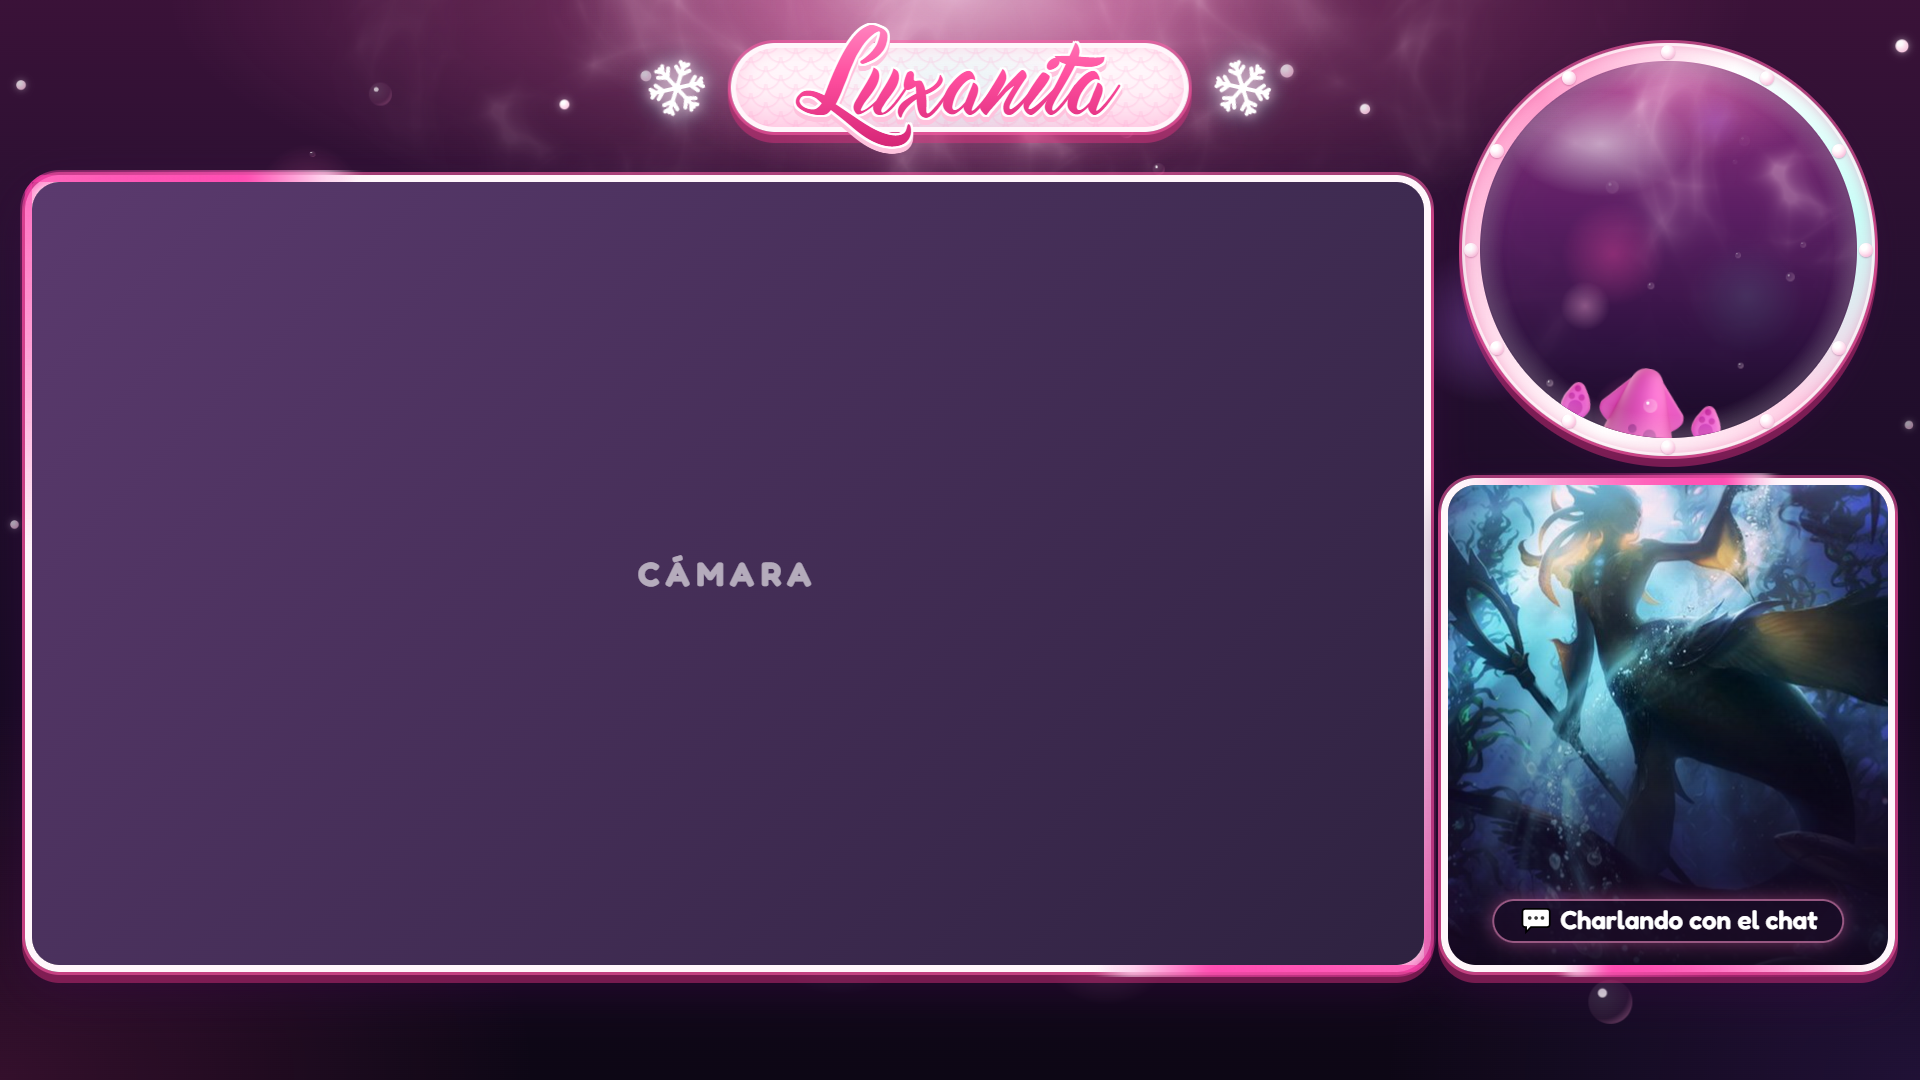
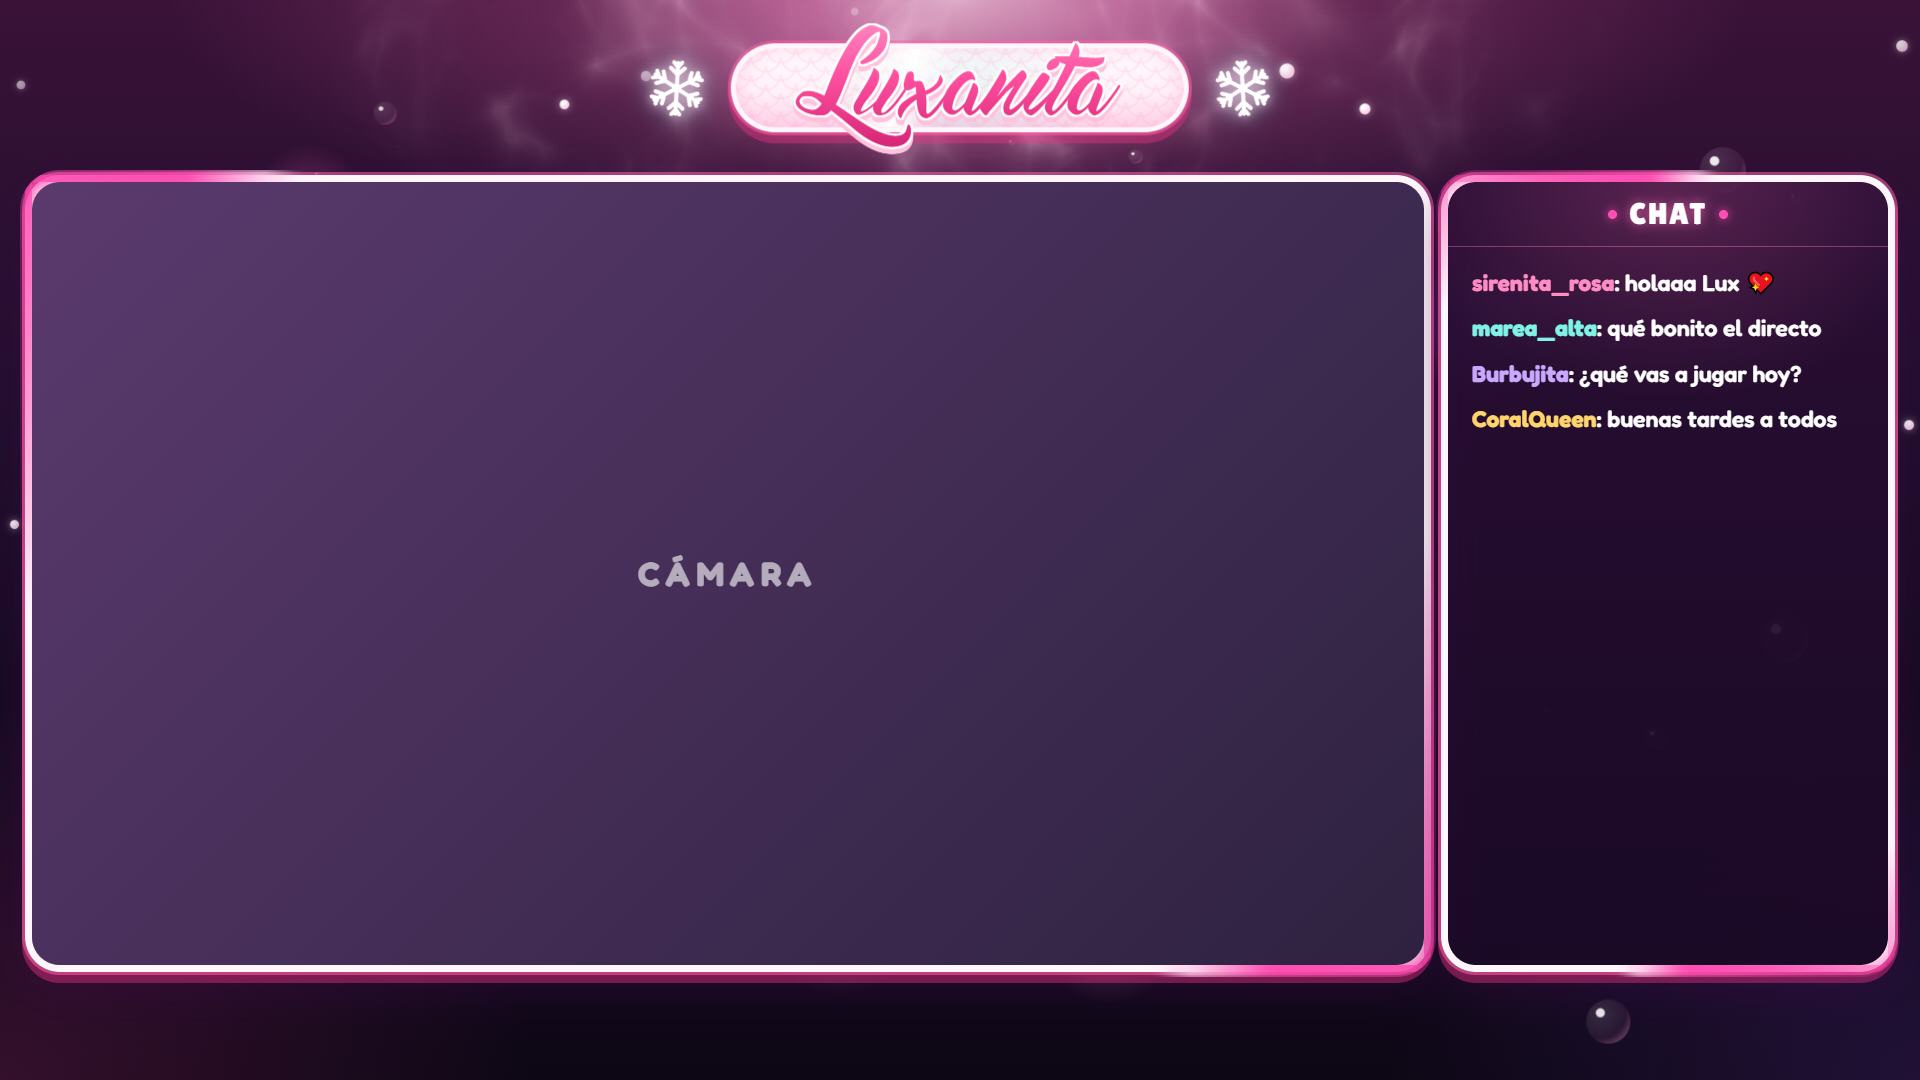
Escena charla: cámara grande + panel de chat a la derecha

diff --git a/overlay/comun.js b/overlay/comun.js
@@ -203,7 +203,7 @@
     // paneles con contenido
     paneles.forEach(function (p, k) {
       var el = document.createElement('div');
-      el.className = 'panel' + (p.notas ? ' notas' : '');
+      el.className = 'panel' + (p.notas ? ' notas' : '') + (p.chat ? ' chat' : '');
       place(el, p, 0);
       var h = '';
       if (p.arte) h += '<div class="arte" style="background-image:url(\'' + p.arte + '\')"></div><div class="velo"></div>';
@@ -211,6 +211,14 @@
                           (p.puntos ? '<span class="puntos"><i>.</i><i>.</i><i>.</i></span>' : '') + '</div>' +
                           (p.sub ? '<div class="sub">' + p.sub + '</div>' : '') + '</div>';
       if (p.etiqueta) h += '<div class="etiqueta">' + p.etiqueta + '</div>';
+      if (p.chat) {
+        h += '<div class="cabecera-chat"><i></i>CHAT<i></i></div>';
+        if (demo) h += '<div class="ejemplo">' +
+          '<p><b style="color:#ff8cc4">sirenita_rosa</b>: holaaa Lux 💖</p>' +
+          '<p><b style="color:#7ff3e6">marea_alta</b>: qué bonito el directo</p>' +
+          '<p><b style="color:#c9a8ff">Burbujita</b>: ¿qué vas a jugar hoy?</p>' +
+          '<p><b style="color:#ffd56b">CoralQueen</b>: buenas tardes a todos</p></div>';
+      }
       if (p.notas) {
         h += '<div class="cabecera">' + p.notas.cabecera + '</div>' +
              p.notas.lineas.map(function (l) { return '<div class="linea"><b>' + l[0] + '</b><span>' + l[1] + '</span></div>'; }).join('');

diff --git a/overlay/comun.css b/overlay/comun.css
@@ -788,3 +788,43 @@ html.preview.sin-fondo #stage { background: repeating-conic-gradient(#d9d3e3 0 2
   background: #ff4fb3;
   box-shadow: 0 0 8px #ff4fb3;
 }
+
+/* panel para el chat (escena de charla): fondo oscuro translúcido para que los mensajes se lean */
+.panel.chat {
+  background:
+    radial-gradient(ellipse 90% 40% at 50% 0%, rgba(255,110,181,.22), transparent 70%),
+    linear-gradient(180deg, rgba(42,14,52,.92) 0%, rgba(26,9,38,.94) 100%);
+}
+.panel.chat .cabecera-chat {
+  position: absolute;
+  left: 0;
+  right: 0;
+  top: 0;
+  height: 64px;
+  display: flex;
+  align-items: center;
+  justify-content: center;
+  gap: 12px;
+  border-bottom: 1.5px solid rgba(255,150,205,.35);
+  color: #fff;
+  font: 400 30px/1 'Lilita One', 'Fredoka', sans-serif;
+  letter-spacing: .06em;
+  text-shadow: 0 0 12px rgba(255,110,181,.8);
+}
+.panel.chat .cabecera-chat i {
+  width: 9px;
+  height: 9px;
+  border-radius: 50%;
+  background: #ff4fb3;
+  box-shadow: 0 0 10px #ff4fb3;
+}
+/* mensajes de ejemplo (solo con ?demo) */
+.panel.chat .ejemplo {
+  position: absolute;
+  left: 24px;
+  right: 20px;
+  top: 84px;
+  font: 600 23px/1.45 'Fredoka', sans-serif;
+  color: #fff;
+}
+.panel.chat .ejemplo p { margin: 0 0 12px; }

diff --git a/overlay/charla.html b/overlay/charla.html
@@ -6,7 +6,8 @@
 <link rel="icon" href="data:,">
 <link rel="stylesheet" href="comun.css">
 <!--
-  ESCENA DE CHARLA: cámara en grande para hablar con el chat. El marco grande es la cámara (transparente).
+  ESCENA DE CHARLA: cámara en grande (transparente) y, a la derecha, un panel para el chat.
+  - La fuente del chat (Chat Box de Streamlabs) va ENCIMA del overlay, dentro del panel.
   - En OBS: fuente "Navegador", archivo local = este archivo, 1920 x 1080.
   - El diseño común está en comun.css y comun.js.
 -->
@@ -16,12 +17,11 @@
 <script>
   montarEscena({
     huecos: [
-      Object.assign({ tipo: 'cam' }, GRANDE)      // cámara en grande
+      Object.assign({ tipo: 'cam' }, GRANDE)                  // cámara en grande (transparente)
     ],
     paneles: [
-      Object.assign({ arte: 'escenas/charla.jpg', etiqueta: '💬 Charlando con el chat' }, PEQUENO)
-    ],
-    ventana: true
+      { x: 1448, y: 182, w: 440, h: 783, chat: true }         // panel del chat: el chat de Streamlabs va encima
+    ]
   });
 </script>
 </body>
